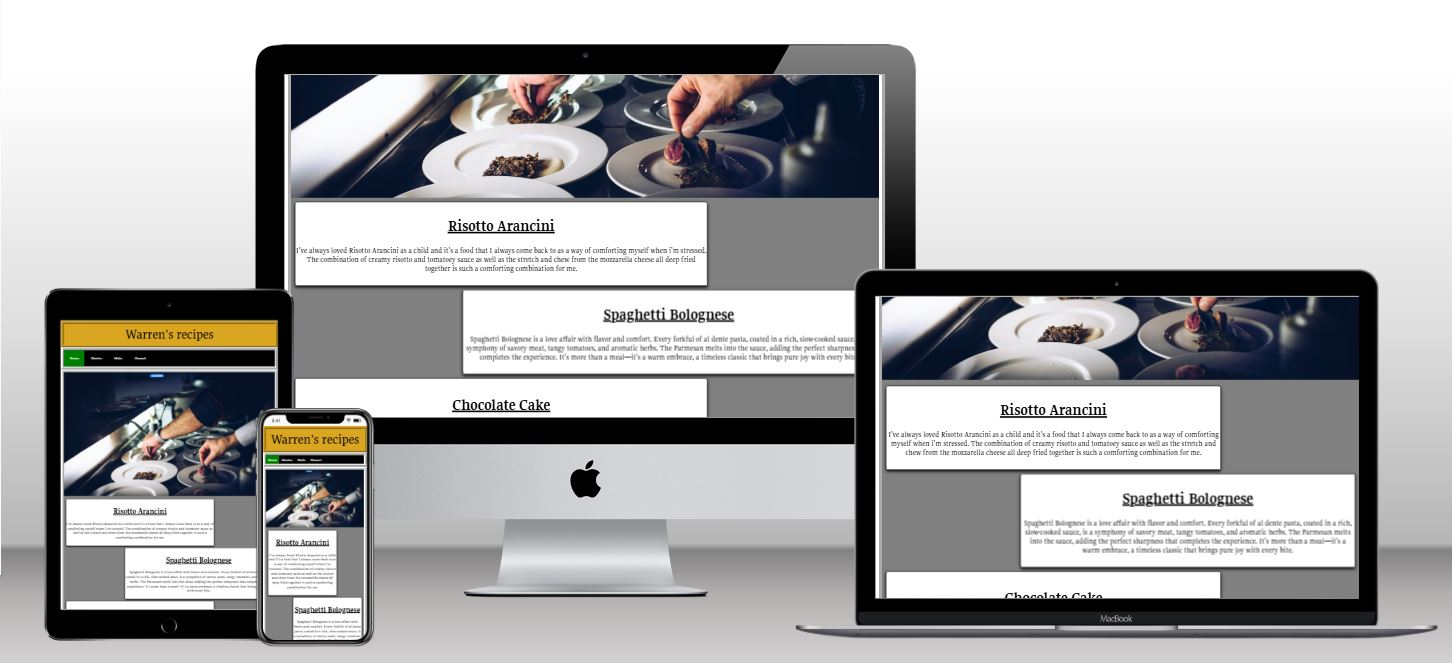
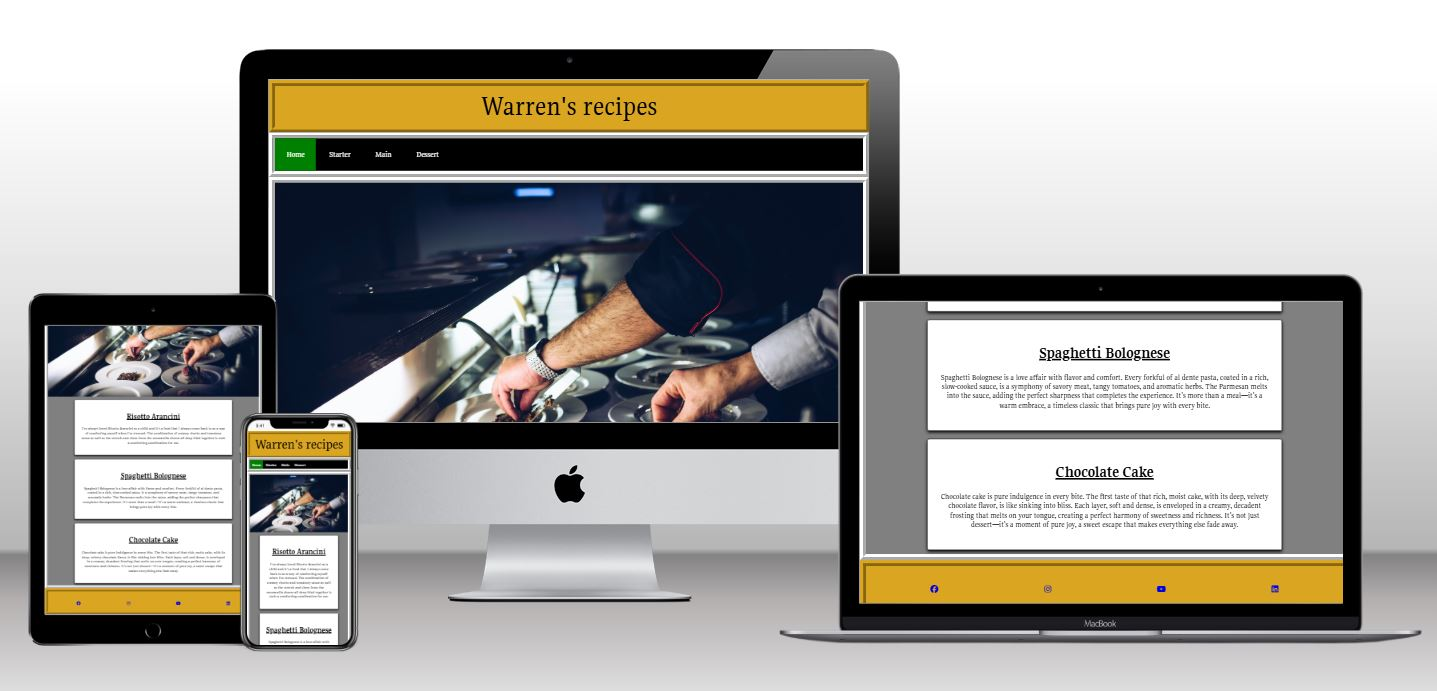
changed the mockup images

diff --git a/README.md b/README.md
@@ -50,9 +50,9 @@ Here is the basic wireframe design for my website which is styled differently de
   - This section much like the previous contains recipes for main dishes that I personally like.
   - This section will be updated in the future with new and exciting recipes.
 
-![Mains Page](https://github.com/Wazza1999/Project-1/blob/main/assets/media/main1page.JPG)
-![Mains Page](https://github.com/Wazza1999/Project-1/blob/main/assets/media/main2page.JPG)
-![Mains Page](https://github.com/Wazza1999/Project-1/blob/main/assets/media/main3page.JPG)
+![Mains Page](https://github.com/Wazza1999/Project-1/blob/main/assets/media/spagbol1page.JPG)
+![Mains Page](https://github.com/Wazza1999/Project-1/blob/main/assets/media/spagbol2page.JPG)
+![Mains Page](https://github.com/Wazza1999/Project-1/blob/main/assets/media/spagbol3page.JPG)
 
 - **Desserts Section**
 
